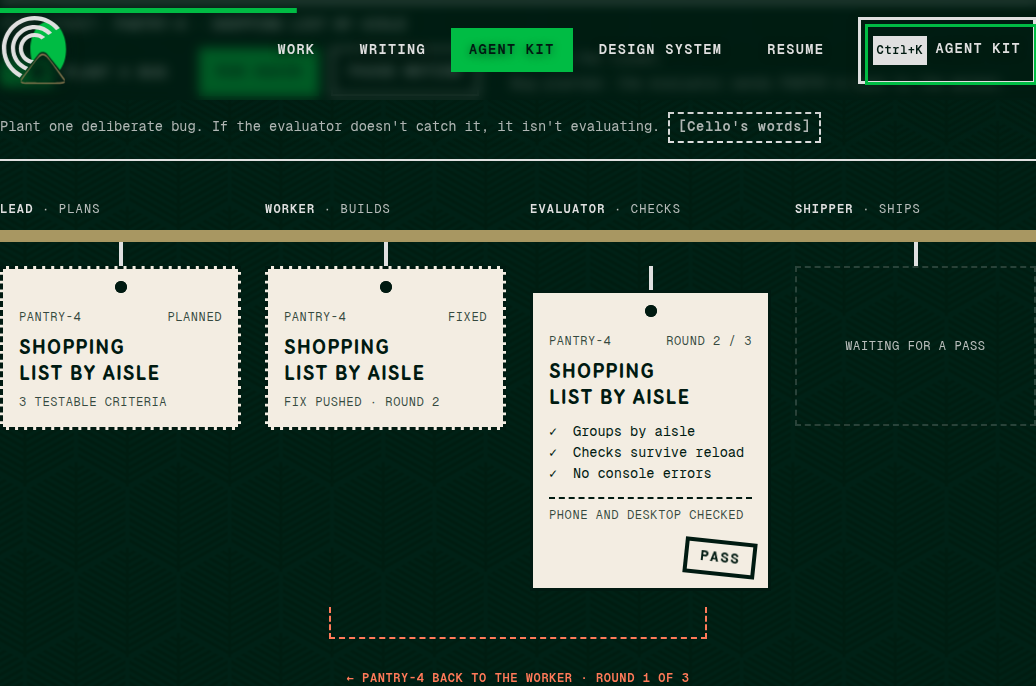
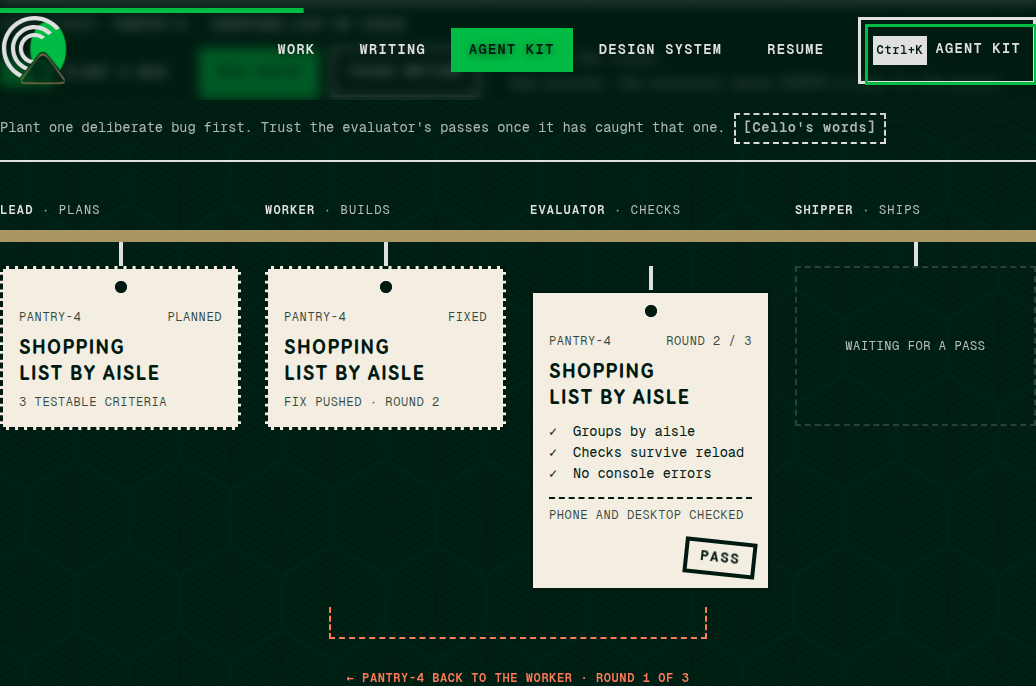
/agent-kit copy pass with the ux-copy skill
Rewrote the page copy around the five take slots (left empty for Cello) and
the prompts (unchanged; people copy them byte for byte):
- no denial framing or litotes ("it isn't evaluating", "Not a
  replacement", "Not needed"); say the positive
- cut an unverifiable claim ("Plenty of people stop after the first two")
  and filler ("actually", "in short")
- no em dashes in shipped copy, including the live-region announcements and
  the copy fallback, which now names Cmd+C for Mac
- plainer wording for the brain, notes, studio, setup, rate card and lessons;
  meta description to match the hero
Checks: build clean, ak-4-verify 172/172, axe clean, screen audit on
/agent-kit has no new groups. ak-3-verify keeps its one known by-design
failure (with JS the studio run ends shipped, not on the static still).

diff --git a/src/components/agent-kit/story.ts b/src/components/agent-kit/story.ts
@@ -43,15 +43,15 @@ const RUNS: Record<"bug" | "clean", Step[]> = {
   bug: [
     lead,
     worker,
-    { lanes: "pph.", dir: "on", eval: "fail", stamp: true, say: "Evaluator: sent back — TypeError on /list" },
+    { lanes: "pph.", dir: "on", eval: "fail", stamp: true, say: "Evaluator: sent back. TypeError on /list" },
     { lanes: "php.", dir: "back", eval: "fail", returned: true, round2: true, say: "Worker: PANTRY-4 is back, fix pushed for round 2" },
-    { lanes: "pph.", dir: "on", eval: "pass", returned: true, round2: true, stamp: true, say: "Evaluator: pass — round 2 of 3" },
+    { lanes: "pph.", dir: "on", eval: "pass", returned: true, round2: true, stamp: true, say: "Evaluator: pass, round 2 of 3" },
     { lanes: "ppph", dir: "on", eval: "pass", returned: true, round2: true, say: "Shipper: PANTRY-4 is live" },
   ],
   clean: [
     { ...lead, eval: "pass" },
     { ...worker, eval: "pass" },
-    { lanes: "pph.", dir: "on", eval: "pass", stamp: true, say: "Evaluator: pass — all 3 criteria" },
+    { lanes: "pph.", dir: "on", eval: "pass", stamp: true, say: "Evaluator: pass, all 3 criteria" },
     { lanes: "ppph", dir: "on", eval: "pass", say: "Shipper: PANTRY-4 is live" },
   ],
 };

diff --git a/src/components/agent-kit/stops.ts b/src/components/agent-kit/stops.ts
@@ -20,7 +20,7 @@ export interface Stop {
 export const stops: Stop[] = [
   { id: "brain", no: "01", name: "Brain", note: "Plain Markdown", eyebrow: "The brain" },
   { id: "notes", no: "02", name: "Notes", note: "Every session", eyebrow: "Session notes" },
-  { id: "studio", no: "03", name: "Studio", note: "4 stations", eyebrow: "The studio" },
+  { id: "studio", no: "03", name: "Studio", note: "4 roles", eyebrow: "The studio" },
   { id: "proof", no: "04", name: "Proof", note: "2 ship stories", eyebrow: "Proof" },
   { id: "setup", no: "05", name: "Setup", note: "3 prompts", eyebrow: "Setup" },
 ];
